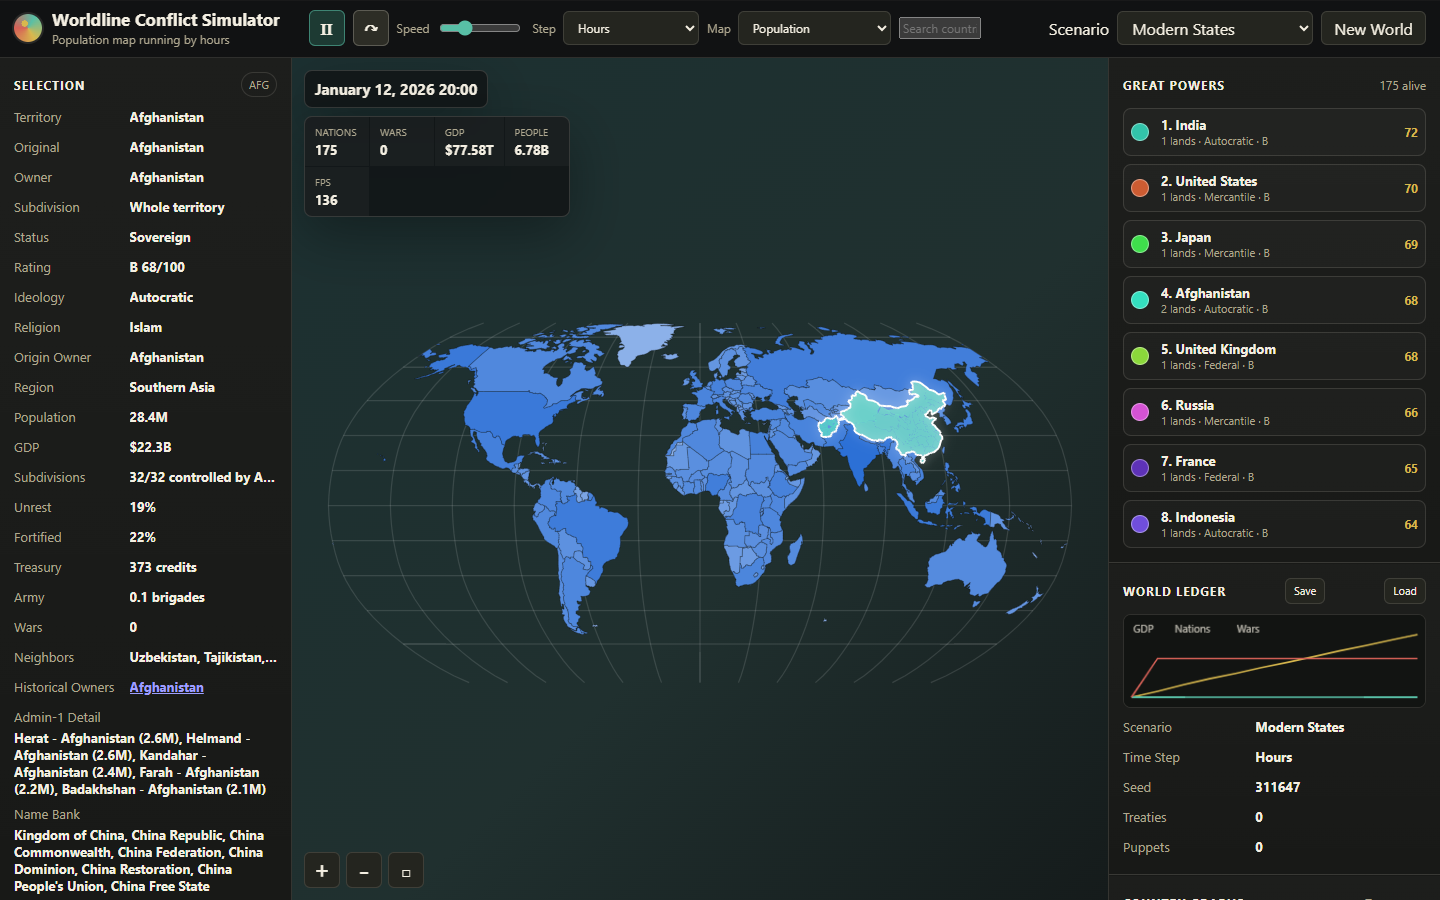
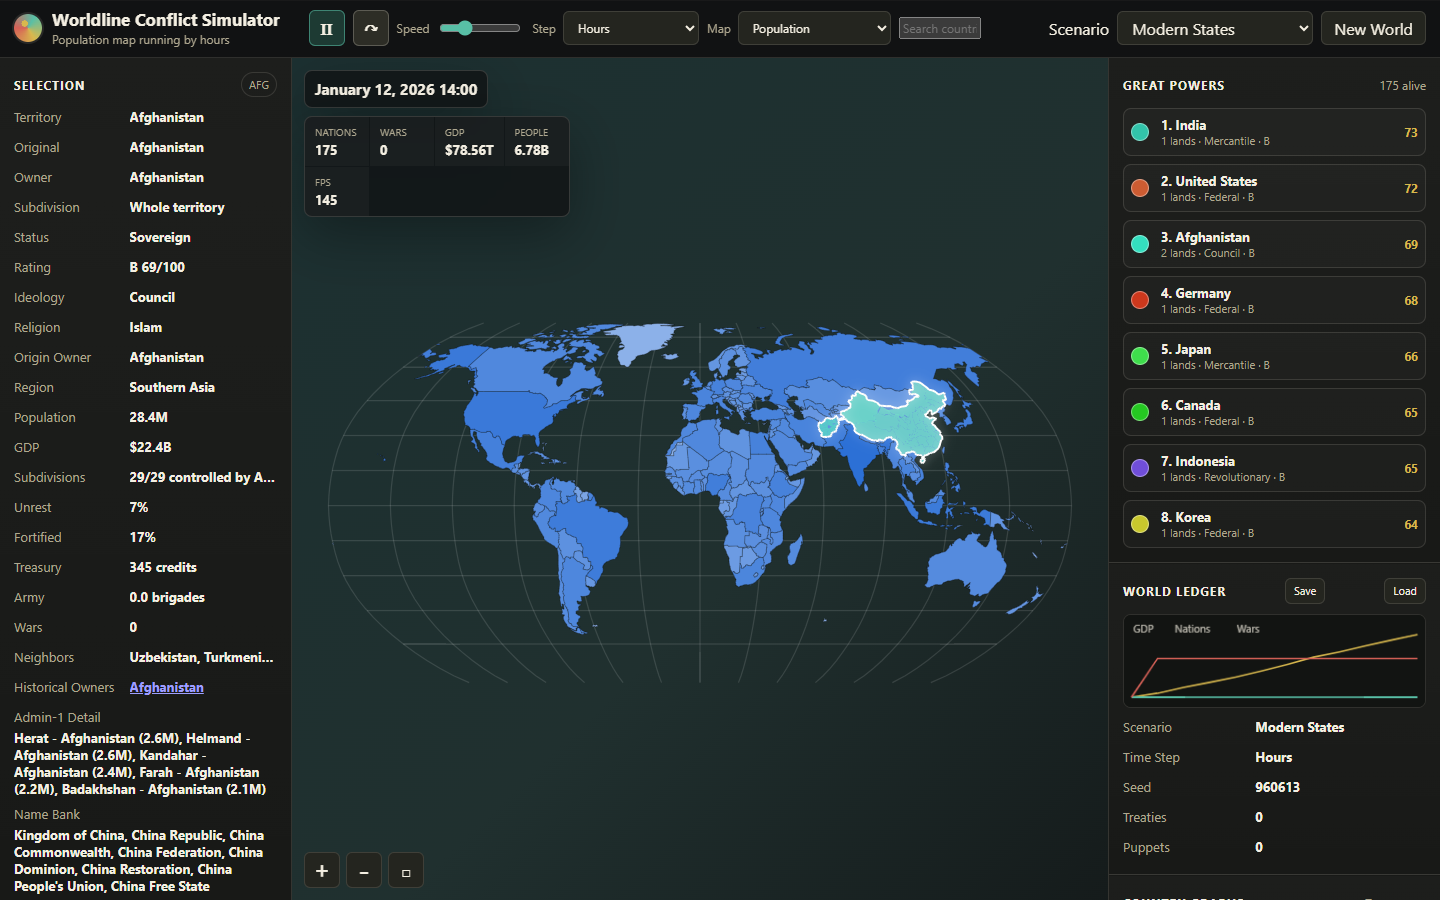
optimizations

diff --git a/src/main.js b/src/main.js
@@ -157,6 +157,8 @@ const DATA_DRIVEN_MAP_MODES = new Set(["economy", "stability", "unrest", "popula
 const POLITICAL_SUBDIVISION_ZOOM = 2.45;
 const POPULATION_SUBDIVISION_ZOOM = 2.05;
 const SUBDIVISION_HIT_ZOOM = 2.45;
+const SUBDIVISION_MERGE_MIN_COUNT = 11;
+const SUBDIVISION_MERGE_MIN_KEEP = 8;
 const REVOLT_WINDOW_MONTHS = 12;
 const MAX_REVOLTS_PER_WINDOW = 5;
 const MAX_MAJOR_REVOLTS_PER_WINDOW = 2;
@@ -276,6 +278,8 @@ const state = {
   dragging: false,
   dragStart: null,
   lastPointer: null,
+  mapInteractionUntil: 0,
+  mapInteractionTimer: null,
   worldBounds: null,
   projection: null,
   animationHandle: null,
@@ -305,6 +309,7 @@ const state = {
   fillCacheDirty: true,
   bgCanvas: null,
   lastProjectionKey: null,
+  subdivisionPathDetailKey: null,
   eventLinkCache: null,
   nameIdeasDirty: true,
   // cached aggregates to avoid repeated array allocations
@@ -466,6 +471,115 @@ function normalizeAdminEntries(entries) {
   return unique.length ? unique.sort((a, b) => a.name.localeCompare(b.name)) : null;
 }
 
+function positiveSubdivisionWeight(value, fallback = 1) {
+  const number = Number(value);
+  return Number.isFinite(number) && number > 0 ? number : fallback;
+}
+
+function subdivisionEntryPopulationWeight(entry) {
+  return positiveSubdivisionWeight(entry?.weight, 1);
+}
+
+function subdivisionEntryGdpWeight(entry) {
+  return positiveSubdivisionWeight(entry?.gdpWeight, subdivisionEntryPopulationWeight(entry));
+}
+
+function subdivisionEntryMergeScore(entry) {
+  return subdivisionEntryPopulationWeight(entry) + subdivisionEntryGdpWeight(entry) * 0.8;
+}
+
+function subdivisionEntryCentroid(entry, fallbackIndex = 0) {
+  if (entry?.rings?.length) {
+    try {
+      const point = representativePoint(entry.rings);
+      if (Number.isFinite(point?.[0]) && Number.isFinite(point?.[1])) return point;
+    } catch (e) {
+      /* use index fallback */
+    }
+  }
+  return [fallbackIndex, 0];
+}
+
+function subdivisionMergeRate(count) {
+  if (count >= 120) return 0.15;
+  if (count >= 60) return 0.12;
+  if (count >= 30) return 0.1;
+  return 0.05;
+}
+
+function nearestMergeTarget(source, targets) {
+  if (!targets.length) return null;
+  let best = targets[0];
+  let bestScore = Infinity;
+  const [sourceLon, sourceLat] = source._mergeCentroid || [source._mergeIndex, 0];
+  for (const target of targets) {
+    const [targetLon, targetLat] = target._mergeCentroid || [target._mergeIndex, 0];
+    const rawLonDelta = Math.abs(sourceLon - targetLon);
+    const lonDelta = Math.min(rawLonDelta, Math.abs(360 - rawLonDelta));
+    const latDelta = sourceLat - targetLat;
+    const indexDelta = Math.abs((source._mergeIndex ?? 0) - (target._mergeIndex ?? 0));
+    const score = lonDelta * lonDelta + latDelta * latDelta + indexDelta * 0.0001;
+    if (score < bestScore) {
+      best = target;
+      bestScore = score;
+    }
+  }
+  return best;
+}
+
+function mergeSubdivisionRings(targetRings, sourceRings) {
+  if (!sourceRings?.length) return targetRings || null;
+  if (!targetRings?.length) return sourceRings.slice();
+  return targetRings.concat(sourceRings);
+}
+
+function mergeSmallSubdivisionEntries(template) {
+  if (!template?.length || template.length < SUBDIVISION_MERGE_MIN_COUNT) {
+    return { entries: template || [], merged: 0 };
+  }
+
+  const maxMergeCount = template.length - SUBDIVISION_MERGE_MIN_KEEP;
+  const targetMergeCount = Math.max(1, Math.floor(template.length * subdivisionMergeRate(template.length)));
+  const mergeCount = Math.min(maxMergeCount, targetMergeCount);
+  if (mergeCount < 1) return { entries: template, merged: 0 };
+
+  const entries = template.map((entry, index) => ({
+    ...entry,
+    rings: Array.isArray(entry.rings) ? entry.rings.slice() : null,
+    weight: subdivisionEntryPopulationWeight(entry),
+    gdpWeight: subdivisionEntryGdpWeight(entry),
+    mergedCount: entry.mergedCount || 1,
+    _mergeIndex: index,
+    _mergeCentroid: subdivisionEntryCentroid(entry, index),
+  }));
+  const mergeCandidates = entries
+    .slice()
+    .sort(
+      (a, b) =>
+        subdivisionEntryMergeScore(a) - subdivisionEntryMergeScore(b) ||
+        safeName(a.name, "").localeCompare(safeName(b.name, "")),
+    )
+    .slice(0, mergeCount);
+  const mergeIndexes = new Set(mergeCandidates.map((entry) => entry._mergeIndex));
+  const kept = entries.filter((entry) => !mergeIndexes.has(entry._mergeIndex));
+
+  for (const source of mergeCandidates) {
+    const target = nearestMergeTarget(source, kept);
+    if (!target) continue;
+    target.weight = subdivisionEntryPopulationWeight(target) + subdivisionEntryPopulationWeight(source);
+    target.gdpWeight = subdivisionEntryGdpWeight(target) + subdivisionEntryGdpWeight(source);
+    target.rings = mergeSubdivisionRings(target.rings, source.rings);
+    target.mergedCount = (target.mergedCount || 1) + (source.mergedCount || 1);
+  }
+
+  return {
+    entries: kept
+      .sort((a, b) => a._mergeIndex - b._mergeIndex)
+      .map(({ _mergeIndex, _mergeCentroid, ...entry }) => entry),
+    merged: mergeCandidates.length,
+  };
+}
+
 function admin1GeometryEntries(territory) {
   const byIso = ADMIN1_GEOMETRY.byIso || {};
   const byIso3 = ADMIN1_GEOMETRY.byIso3 || {};
@@ -529,13 +643,19 @@ function ensureTerritorySubdivisions(territory, ownerId) {
         weight: e.weight ?? 1,
         gdpWeight: e.gdpWeight ?? e.weight ?? 1,
       }));
+      const merged = mergeSmallSubdivisionEntries(template);
+      template = merged.entries;
+      territory.mergedSubdivisionCount = merged.merged;
       territory.subdivisionSource = "admin1";
     } else {
       const n = Math.min(6, Math.max(1, Math.round(Math.log10(Math.max(100000, territory.population || 100000)) - 4 + 1)));
       template = new Array(n).fill(0).map((_, i) => ({ name: `${territory.originalName} ${i + 1}`, type: GENERIC_SUBDIVISION_TYPES[i % GENERIC_SUBDIVISION_TYPES.length] }));
       territory.subdivisionSource = "wedge";
+      territory.mergedSubdivisionCount = 0;
     }
     territory.subdivisionsTemplate = template;
+  } else {
+    territory.mergedSubdivisionCount ??= 0;
   }
 
   const weights = (territory.subdivisionsTemplate || []).map((entry) => entry.weight ?? 1);
@@ -837,6 +957,7 @@ function prepareTerritories(geojson) {
         subdivisionsTemplate: [],
         subdivisionsType: "Subdivision",
         subdivisionSource: "unknown",
+        mergedSubdivisionCount: 0,
         segments: buildTerritorySegments(lonLatRings, projectedRings),
         path: null,
       };
@@ -1084,6 +1205,7 @@ function initializeGame({ scenario = state.scenario, seed = Math.floor(Math.rand
     territory.subdivisions = [];
     territory.subdivisionsTemplate = [];
     territory.subdivisionSource = "unknown";
+    territory.mergedSubdivisionCount = 0;
     territory.maritimeNeighbors = territory.maritimeNeighbors || [];
     territory.capital = false;
   }
@@ -3543,6 +3665,20 @@ function renderAfterSimulationStep({ forceRender = false } = {}) {
   }
 }
 
+function isFastMapInteractionRender(time = performance.now()) {
+  return state.dragging || time < (state.mapInteractionUntil || 0);
+}
+
+function requestDetailedMapRenderAfterInteraction(delay = 140) {
+  state.mapInteractionUntil = performance.now() + delay;
+  if (state.mapInteractionTimer) window.clearTimeout(state.mapInteractionTimer);
+  state.mapInteractionTimer = window.setTimeout(() => {
+    state.mapInteractionTimer = null;
+    state.mapInteractionUntil = 0;
+    renderMap();
+  }, delay + 20);
+}
+
 function startVisualLoop() {
   if (state.animationHandle) window.cancelAnimationFrame(state.animationHandle);
   const frame = (time) => {
@@ -3605,6 +3741,7 @@ function clearScreenPathCaches() {
   }
   state.borderPathCache = null;
   state.ownerBoundaryCache.clear();
+  state.subdivisionPathDetailKey = null;
 }
 
 function shouldPrepareSubdivisionPaths(mode = state.mapMode) {
@@ -3644,6 +3781,8 @@ function renderMap() {
 
   const mode = state.mapMode;
   const territories = state.territories;
+  const renderSubdivisionDetail = shouldPrepareSubdivisionPaths(mode) && !isFastMapInteractionRender();
+  const rebuildSubdivisionPaths = renderSubdivisionDetail && state.subdivisionPathDetailKey !== projectionKey;
   // Cache global aggregates once per render to avoid repeated allocations
   if (mode === "population" || mode === "economy") {
     let maxPop = 1;
@@ -3683,7 +3822,7 @@ function renderMap() {
   }
 
   // Cache expensive subdivision Path2D objects only when the current zoom/mode can show them.
-  if (rebuildPaths && shouldPrepareSubdivisionPaths(mode)) {
+  if (rebuildSubdivisionPaths) {
     for (const territory of territories) {
       const bounds = territory.screenBounds || screenBoundsForTerritory(territory, true);
       // cache screen bounds for reuse
@@ -3733,16 +3872,18 @@ function renderMap() {
         }
       }
     }
+    state.subdivisionPathDetailKey = projectionKey;
+  }
 
-    // Update segment ownership map and cache segment screen positions when projection changes
+  // Borders must update on every zoom/pan projection change, even when subdivision
+  // detail is hidden by LOD.
+  if (rebuildPaths) {
     const segmentMap = currentSegmentOwnerMap();
-    if (rebuildPaths && segmentMap) {
-      for (const entry of segmentMap.values()) {
-        const seg = entry.segment;
-        if (seg && seg.a && seg.b) {
-          seg.screenA = projectToScreen(seg.a);
-          seg.screenB = projectToScreen(seg.b);
-        }
+    for (const entry of segmentMap.values()) {
+      const seg = entry.segment;
+      if (seg && seg.a && seg.b) {
+        seg.screenA = projectToScreen(seg.a);
+        seg.screenB = projectToScreen(seg.b);
       }
     }
   }
@@ -3800,7 +3941,7 @@ function renderMap() {
         fctx.fillStyle = fillForTerritory(territory, mode);
         fctx.fill(path, "evenodd");
         // render subdivisions into the fill cache for population/political modes
-        if (mode === "population" && shouldPrepareSubdivisionPaths(mode) && territory.subdivisions?.length) {
+        if (mode === "population" && renderSubdivisionDetail && territory.subdivisions?.length) {
           renderTerritorySubdivisionsToCtx(territory, fctx, maxSubdivisionPopulation);
         }
       }
@@ -3825,8 +3966,8 @@ function renderMap() {
       }
     }
   }
-  if (mode === "population" && !didUseFillCache && shouldPrepareSubdivisionPaths(mode)) drawPopulationSubdivisions();
-  if (mode === "political") drawSubdivisionsOverlay();
+  if (mode === "population" && !didUseFillCache && renderSubdivisionDetail) drawPopulationSubdivisions();
+  if (mode === "political" && renderSubdivisionDetail) drawSubdivisionsOverlay();
   drawContestedTerritories();
   drawMapBorders(mode);
 
@@ -4353,8 +4494,19 @@ function drawSubdivisionControlCells(territory, controllerId, color) {
 }
 
 function drawContestedTerritories() {
+  const fastInteractionRender = isFastMapInteractionRender();
   for (const territory of state.territories) {
     if (!territory.path || !territory.subdivisions?.length) continue;
+    if (fastInteractionRender) {
+      if (territory.captureFlash > 0.01) {
+        ctx.save();
+        ctx.globalAlpha = territory.captureFlash * 0.26;
+        ctx.fillStyle = "#f4efe2";
+        ctx.fill(territory.path, "evenodd");
+        ctx.restore();
+      }
+      continue;
+    }
     const hasSubdivisionVisual =
       territory.captureFlash > 0.01 ||
       territory.subdivisions.some((s) => (s.contestedById && s.contestedProgress > 0.01) || s.ownerId !== territory.ownerId);
@@ -4488,6 +4640,7 @@ function drawWarFronts() {
 
 function drawSubdivisionFronts() {
   if (state.view.zoom < 0.9) return;
+  if (isFastMapInteractionRender()) return;
   ctx.save();
   for (const territory of state.territories) {
     if (!territory.subdivisions?.length) continue;
@@ -5314,9 +5467,20 @@ function updateTooltip(event) {
   if (hoverChanged) renderMap();
 }
 
-function zoomBy(multiplier) {
-  state.view.zoom = clamp(state.view.zoom * multiplier, 0.72, 7);
+function zoomAt(multiplier, anchor = { x: canvas.width / 2, y: canvas.height / 2 }, { deferDetail = false } = {}) {
+  const previousZoom = state.view.zoom;
+  const nextZoom = clamp(previousZoom * multiplier, 0.72, 7);
+  if (nextZoom === previousZoom) return;
+  if (deferDetail) requestDetailedMapRenderAfterInteraction();
+  const ratio = nextZoom / previousZoom;
+  state.view.zoom = nextZoom;
+  state.view.panX = anchor.x - (anchor.x - state.view.panX - canvas.width / 2) * ratio - canvas.width / 2;
+  state.view.panY = anchor.y - (anchor.y - state.view.panY - canvas.height / 2) * ratio - canvas.height / 2;
   renderMap();
+}
+
+function zoomBy(multiplier) {
+  zoomAt(multiplier);
 }
 
 function saveGame() {
@@ -5361,6 +5525,7 @@ function saveGame() {
       captureFlash: territory.captureFlash,
       subdivisionsType: territory.subdivisionsType || "Subdivision",
       subdivisionSource: territory.subdivisionSource || "unknown",
+      mergedSubdivisionCount: territory.mergedSubdivisionCount || 0,
       subdivisionsTemplate: territory.subdivisionsTemplate || [],
       subdivisions: (territory.subdivisions || []).map((subdivision) => {
         const { path, ...rest } = subdivision;
@@ -5436,6 +5601,7 @@ function loadGame() {
     territory.iso2 = data.iso2 ?? territory.iso2 ?? "";
     territory.subdivisionsType = data.subdivisionsType ?? territory.subdivisionsType ?? "Subdivision";
     territory.subdivisionSource = data.subdivisionSource ?? territory.subdivisionSource ?? "unknown";
+    territory.mergedSubdivisionCount = data.mergedSubdivisionCount ?? territory.mergedSubdivisionCount ?? 0;
     territory.subdivisionsTemplate = data.subdivisionsTemplate ?? territory.subdivisionsTemplate ?? [];
     territory.subdivisions = data.subdivisions ?? territory.subdivisions ?? [];
     for (const subdivision of territory.subdivisions || []) {
@@ -5614,19 +5780,14 @@ function bindEvents() {
     state.dragging = false;
     canvas.releasePointerCapture(event.pointerId);
     canvas.classList.remove("dragging");
+    renderMap();
   });
   canvas.addEventListener(
     "wheel",
     (event) => {
       event.preventDefault();
-      const before = canvasPoint(event);
-      const previousZoom = state.view.zoom;
       const multiplier = event.deltaY < 0 ? 1.12 : 0.9;
-      state.view.zoom = clamp(state.view.zoom * multiplier, 0.72, 7);
-      const ratio = state.view.zoom / previousZoom;
-      state.view.panX = before.x - (before.x - state.view.panX - canvas.width / 2) * ratio - canvas.width / 2;
-      state.view.panY = before.y - (before.y - state.view.panY - canvas.height / 2) * ratio - canvas.height / 2;
-      renderMap();
+      zoomAt(multiplier, canvasPoint(event), { deferDetail: true });
     },
     { passive: false },
   );